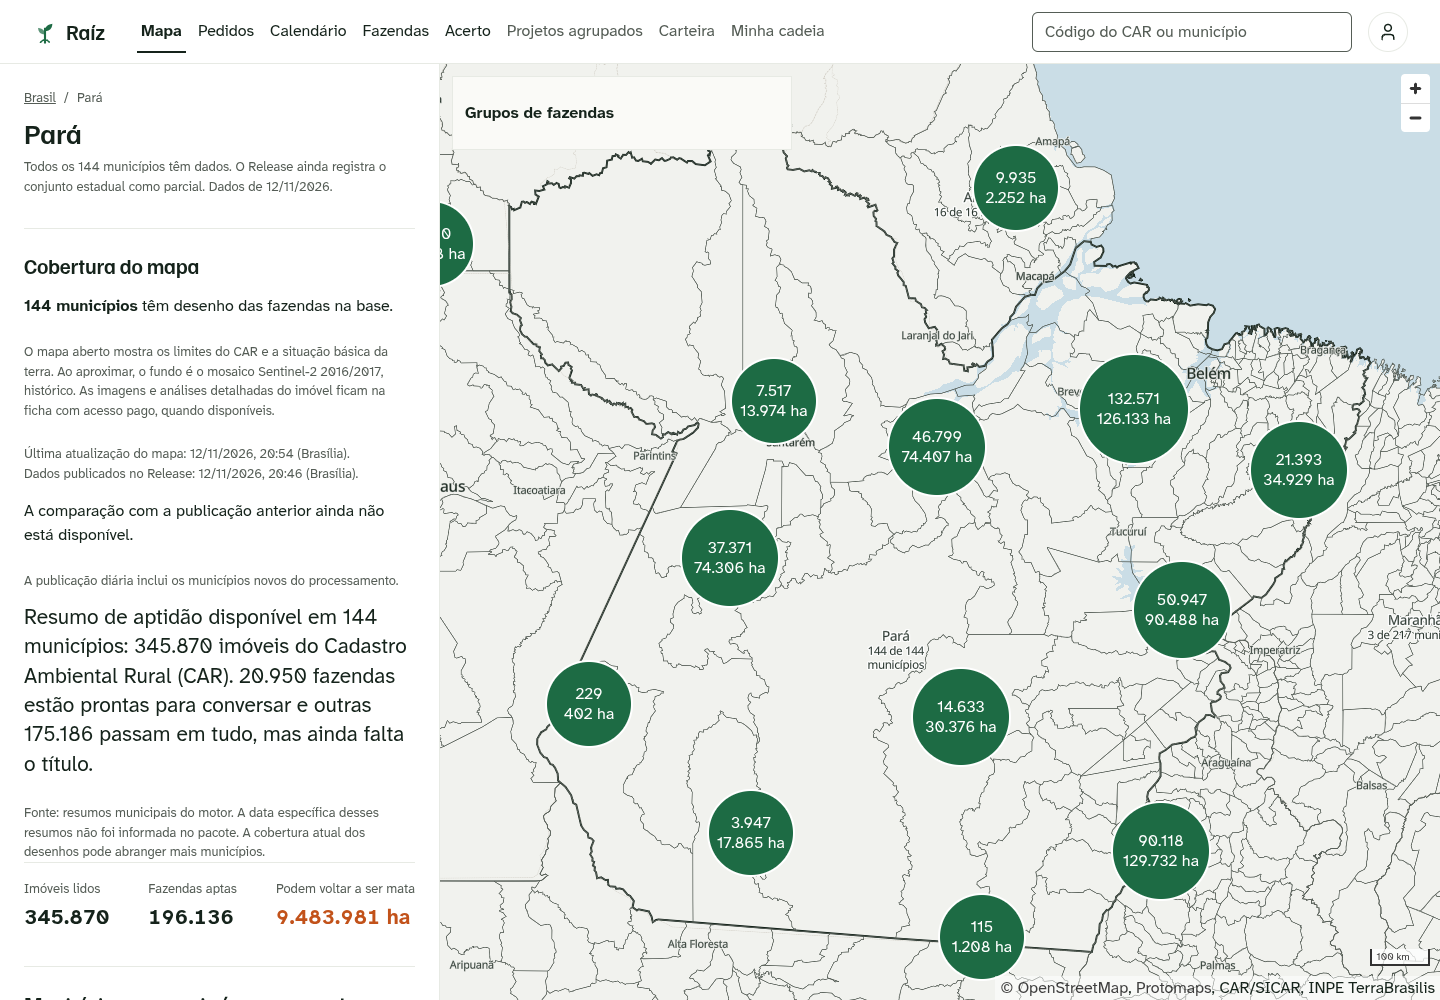
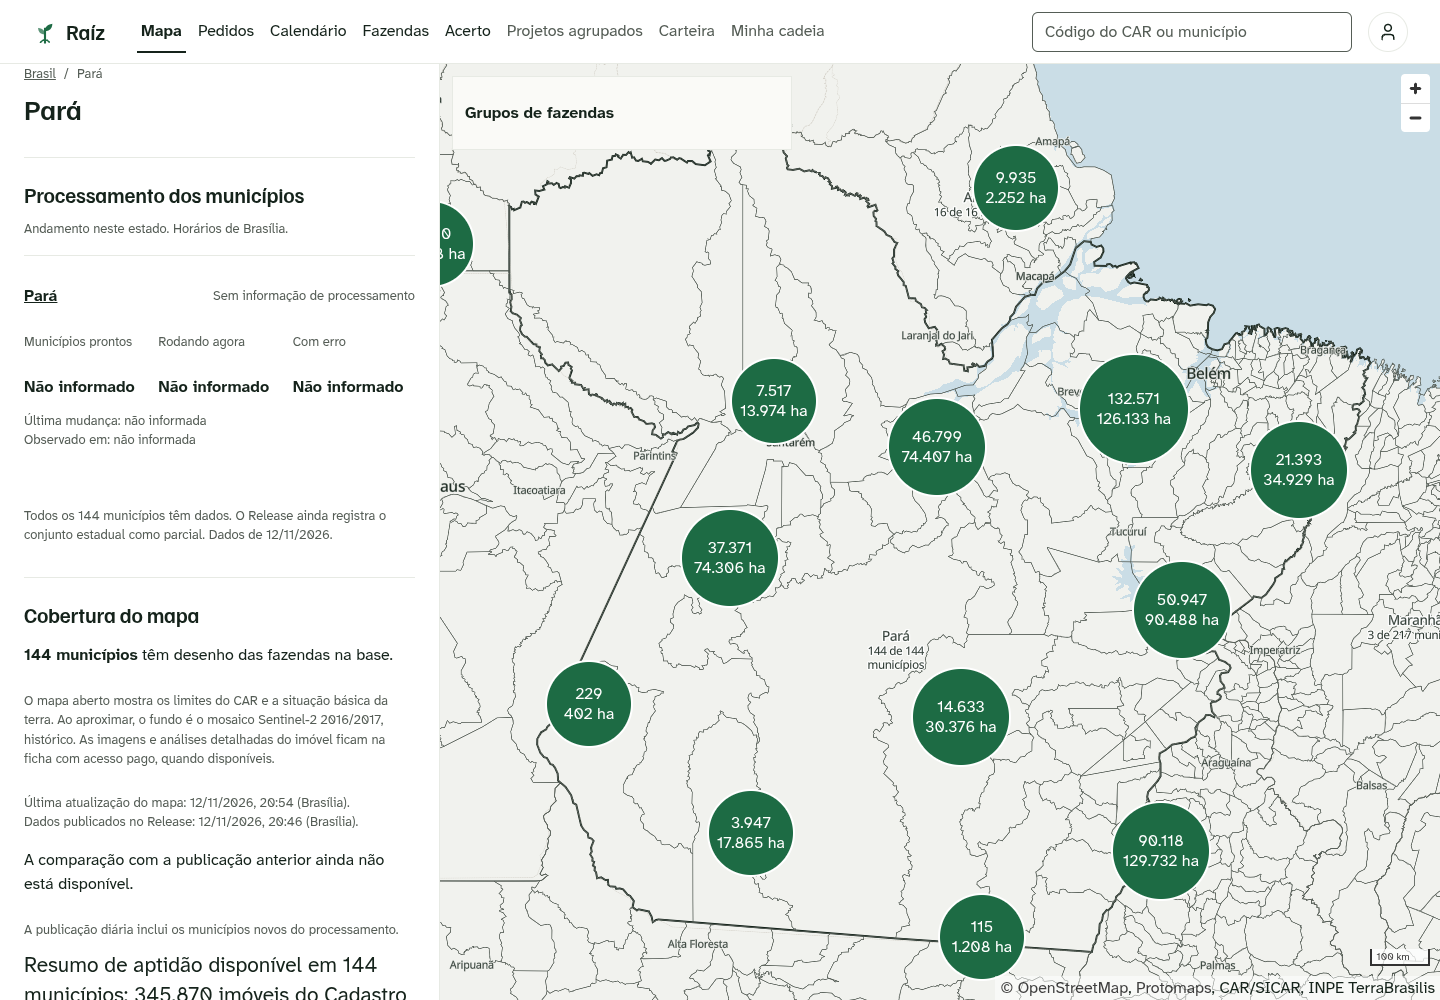
Atualiza evidências finais do mapa e do painel de processamento

Changed region(s): [[0.0, 0.341, 0.2812, 0.93], [0.0, 0.062, 0.2812, 0.31], [0.0, 0.961, 0.2812, 1.0]]

diff --git a/docs/design/evidencias/mapa-r12/README.md b/docs/design/evidencias/mapa-r12/README.md
@@ -1,6 +1,6 @@
 # Mapa: grupos nacionais e detalhe real
 
-Capturas reais de Chromium, em 1440 × 1000 px, sem retoque. A entrada passa do SVG publicado para o mapa MapLibre com agrupamento Supercluster. Cada círculo mostra a quantidade de fazendas e os hectares conhecidos do agregado; ao aproximar, os grupos se abrem e dão lugar aos limites reais do CAR.
+Capturas reais de Chromium, em 1440 × 1000 px no desktop e 360 × 800 px no celular, sem retoque. A entrada passa do SVG publicado para o mapa MapLibre com agrupamento Supercluster. Cada círculo mostra a quantidade de fazendas e os hectares conhecidos do agregado; ao aproximar, os grupos se abrem e dão lugar aos limites reais do CAR.
 
 | Escala | Antes | Depois |
 |---|---|---|
@@ -8,33 +8,39 @@ Capturas reais de Chromium, em 1440 × 1000 px, sem retoque. A entrada passa do 
 | Pará | — | [Grupos estaduais](estado-depois.png) |
 | Parauapebas | — | [Município](municipio-depois.png) |
 | Fazenda selecionada | — | [Satélite e contorno sem preenchimento](fazenda-depois.png) |
+| Brasil a 360 px | — | [Entrada móvel](brasil-360-depois.png) |
+| Processamento | — | [Ausência de telemetria no snapshot](processamento-depois.png) |
 
-O “antes” foi capturado em `https://bernardoemmel.github.io/Raiz/`, em 13/11/2026 às 02:14:31 UTC, com zero erros de rede ou JavaScript. O “depois” usa o frontend integrado `1412642`, incluindo as fichas e painéis da rodada 12 e a integração da main. O Supercluster permanece no worker do MapLibre; os grupos visíveis são botões HTML posicionados pelo mapa, com contagem, hectares, toque e teclado. A camada transparente mantém a consulta espacial sem compilar o programa gráfico dos círculos. O exportador público é `6bc77c1`.
+O “antes” foi capturado em `https://bernardoemmel.github.io/Raiz/`, em 13/11/2026 às 02:14:31 UTC, com zero erros de rede ou JavaScript. Os seis “depois” foram capturados entre 04:52:25 e 04:52:31 UTC do mesmo dia, com o frontend integrado `f0a7c96`, incluindo as fichas da rodada 12, o painel de processamento da main e o fundo sólido em CSS. O Supercluster permanece no worker do MapLibre; os grupos visíveis são botões HTML posicionados pelo mapa, com contagem, hectares, toque e teclado. A camada transparente mantém a consulta espacial sem compilar o programa gráfico dos círculos. O exportador histórico do agregado público é `6bc77c1`.
 
 A [entrada em 360 px](brasil-360-depois.png) foi aberta em um contexto novo, com enquadramento inicial próprio. Há uma só legenda recolhível, para que a explicação não cubra a contagem. O SVG permanece apenas no minimapa da barra lateral. As [imagens da etapa H3](../mapa/README.md) ficam como registro histórico; os hexágonos não são a visualização nacional desta rodada.
 
 ## Dados e limites
 
-As cinco imagens novas compartilham o snapshot público de 12/11/2026 às 23:54:43 UTC: **444 municípios e 13 estados**. A entrada nacional usa **6.787 pontos públicos**, deduplicados globalmente, em **1.227.580 bytes no GeoJSON normal**, lido diretamente pelo worker; o fallback de publicações anteriores ocupa **215.591 bytes comprimidos**. São os centros das células H3 já agregadas, nunca a localização individual de uma fazenda. O Supercluster incorporado no worker do MapLibre soma as contagens e hectares conhecidos, sem criar um segundo índice na interface.
+As seis imagens novas compartilham o snapshot público cujo índice cartográfico foi gerado em 12/11/2026 às 23:54:43 UTC, com dados publicados às 23:46:50 UTC: **444 municípios e 13 estados**. O índice, os agregados normal e gzip e o manifesto dos estados foram conferidos byte a byte contra a fonte congelada. A entrada nacional usa **6.787 pontos públicos**, deduplicados globalmente, em **1.227.580 bytes no GeoJSON normal**, lido diretamente pelo worker; o fallback de publicações anteriores ocupa **215.591 bytes comprimidos**. São os centros das células H3 já agregadas, nunca a localização individual de uma fazenda. O Supercluster incorporado no worker do MapLibre soma as contagens e hectares conhecidos, sem criar um segundo índice na interface.
 
 O conjunto agrega 1.626.268 CARs nas células publicadas; esse número não representa cobertura completa do território. As 3.717 células com medida somam apenas áreas conhecidas, positivas e sem sobreposição detectada, com ao menos cinco contribuintes. Células suprimidas não entram nessa contagem. Os grupos sem medida dizem “Sem medida”, e a parcela desconhecida não vira zero. Os centros são uma alocação estatística; não desenham áreas de restauração. O período deste snapshot é preservado para a comparação, mesmo quando a próxima publicação contém mais dados.
 
-O painel distingue a cobertura cartográfica atual do resumo de aptidão de 365 municípios em 9 estados, cuja data própria não veio no pacote. A contagem de municípios processados continua no mapa e no painel, sem transformar um conjunto parcial em completo.
+O painel distingue a cobertura cartográfica deste snapshot do resumo de aptidão de **365 municípios em 9 estados**, cuja data própria não veio no pacote. A contagem do mapa não transforma esse resumo parcial em completo.
+
+O snapshot não contém observações de execução. Para registrar o painel integrado sem misturar dados vivos com a comparação congelada, o build consulta uma projeção local em `amostra/processamento.json`: **27 UFs sem telemetria**, com todas as contagens e datas de observação, mudança e validade nulas. A captura e o DOM confirmam 27 avisos “Sem informação de processamento” e 81 contagens “Não informado”. O `gerado_em` de 13/11/2026 às 04:49:46 UTC é a criação dessa projeção, não a data de uma observação. Nenhuma consulta ao RAW vivo foi feita; os 444 municípios do mapa não foram convertidos em municípios prontos nesse painel.
 
 ## Verificação
 
-O roteiro abriu Brasil e Pará, buscou Parauapebas e clicou no interior renderizado de uma fazenda pública sem sobreposição detectada. A seleção enquadrou o CAR efetivamente escolhido no zoom 14,32. Foram **107 requisições no roteiro desktop, zero respostas 404 e zero erros de JavaScript/console**. A entrada móvel também terminou sem erros HTTP ou JavaScript. Nove imagens reais de satélite responderam HTTP 200. Não houve consulta a endpoints pagos de ficha, visual, certidão ou desenvolvimento; os PNGs não mostram nome, CPF ou contato de proprietário.
+O roteiro abriu Brasil e Pará, buscou Parauapebas e clicou no interior renderizado de uma fazenda pública sem sobreposição detectada. A seleção enquadrou o CAR efetivamente escolhido no zoom 14,32. Foram **108 requisições no roteiro desktop e 55 na entrada móvel, todas respondidas com HTTP 200 ou 206, zero 404 e zero erros de JavaScript/console**. Nove imagens reais de satélite responderam HTTP 200. Não houve interceptação de rede nem consulta a endpoints pagos de ficha, visual, certidão ou desenvolvimento; os PNGs não mostram nome, CPF ou contato de proprietário.
 
 O detalhe conserva contornos de 1 px sem preenchimento, tracejado nos limites com sobreposição detectada e máscara fora do imóvel selecionado. A imagem pública é o mosaico **Sentinel-2 cloudless 2016/2017 da EOX**, histórico, sob **CC BY 4.0**; ano e atribuição aparecem na captura. Ela não descreve a situação atual da terra. O fundo e o satélite ficam abaixo dos limites, contornos e máscara.
 
 Nenhuma hachura de restauração foi criada a partir do CAR. A fonte autorizada está vazia no mapa aberto; a ficha paga consulta a geometria real pela API quando disponível. A carga desse recorte no mapa geral continua pendente, portanto estas capturas não demonstram essa integração.
 
-O teste Playwright usa grupos com medida ausente para conferir soma correta, rótulos reais, abertura por Enter com foco preservado no mapa, reutilização do botão após atualização, transição para município sem perder o zoom e remoção dos marcadores no detalhe. Confere também o fallback gzip, alerta e ausência de marcadores quando o GeoJSON falha, 360 px, zero violações axe WCAG 2.1 AA e zero 404 na navegação normal. Os seis testes unitários dos grupos incluem o Supercluster real, medidas desconhecidas, números pequenos e formatação. A proteção contra resposta tardia após troca de fonte foi revisada pelo contador de geração.
+O Playwright Pages do build final passou. Seu roteiro confere grupos com medida ausente, rótulos reais, abertura por Enter com foco preservado no mapa, reutilização do botão após atualização, transição para município sem perder o zoom e remoção dos marcadores no detalhe. Confere também fallback gzip, alerta e ausência de marcadores quando o GeoJSON falha, 360 px e zero 404 na navegação normal. As sete verificações axe da fixture terminaram sem violações WCAG 2.1 AA. A proteção contra resposta tardia após troca de fonte foi revisada pelo contador de geração.
 
 ## Desempenho
 
-A série final fixa de três execuções Lighthouse mobile com estes dados reais obteve **88, 98 e 92 em desempenho (mediana 92)** e **100 em acessibilidade nas três**. O gate usa mediana de desempenho ≥ 90 e acessibilidade mínima ≥ 90. A amostra 88 continua registrada; não foi descartada. LCP: 1,464 / 1,430 / 1,490 s; TBT: 431,5 / 152 / 319 ms. A inicialização gráfica ainda varia neste ambiente.
+A série final fixa de três execuções Lighthouse mobile com estes dados reais obteve **82, 95 e 95 em desempenho (mediana 95)** e **100 em acessibilidade nas três**. O gate usa mediana de desempenho ≥ 90 e acessibilidade mínima ≥ 90. A amostra 82 continua registrada; não foi descartada. LCP: 1,495 / 1,426 / 1,428 s; TBT: 709 / 232,5 / 261 ms. A inicialização gráfica ainda varia neste ambiente.
 
-O perfil identificou cerca de 100 ms reais na compilação e vinculação do programa dos círculos. Os botões visíveis eliminaram essa compilação mantendo o índice no worker. A série isolada dessa mudança, antes da legenda única, foi 91 / 93 / 97; a série anterior era 78 / 84 / 90. Não houve temporizador artificial, identificação do Lighthouse ou troca de motor de mapa.
+O mesmo build passou as 18 medições da fixture sintética do CI: três por rota, com medianas de desempenho **Brasil 98, entrar 98, novo pedido 97, prospecção 97, acerto 97 e produtor 100**. Todas obtiveram acessibilidade 100. Esses resultados da fixture permanecem separados da série com dados reais.
 
-As imagens registram aparência e navegação; não substituem a inspeção do site publicado. A medição corresponde ao build integrado `1412642` e ao snapshot congelado de 444 municípios, não à publicação diária mais recente. Resultados estão em [lighthouse.json](lighthouse.json); metadados e hashes em [snapshot.json](snapshot.json).
+O perfil identificou cerca de 100 ms reais na compilação e vinculação do programa dos círculos. Os botões visíveis eliminaram essa compilação mantendo o índice no worker. O fundo sólido também passou a CSS (`ce9f24f`), preservando as camadas geográficas; a comparação de 360 px desse experimento teve zero pixels diferentes. Como histórico, a série isolada dos botões, antes da legenda única, foi 91 / 93 / 97; a série anterior era 78 / 84 / 90. Não houve temporizador artificial, identificação do Lighthouse ou troca de motor de mapa.
+
+As imagens e a rede registram o build local; não substituem a inspeção do site publicado. A medição corresponde ao frontend integrado `f0a7c96` e ao snapshot congelado de 444 municípios, não à publicação diária mais recente. Resultados estão em [lighthouse.json](lighthouse.json); datas, configuração de build e hashes em [snapshot.json](snapshot.json).
